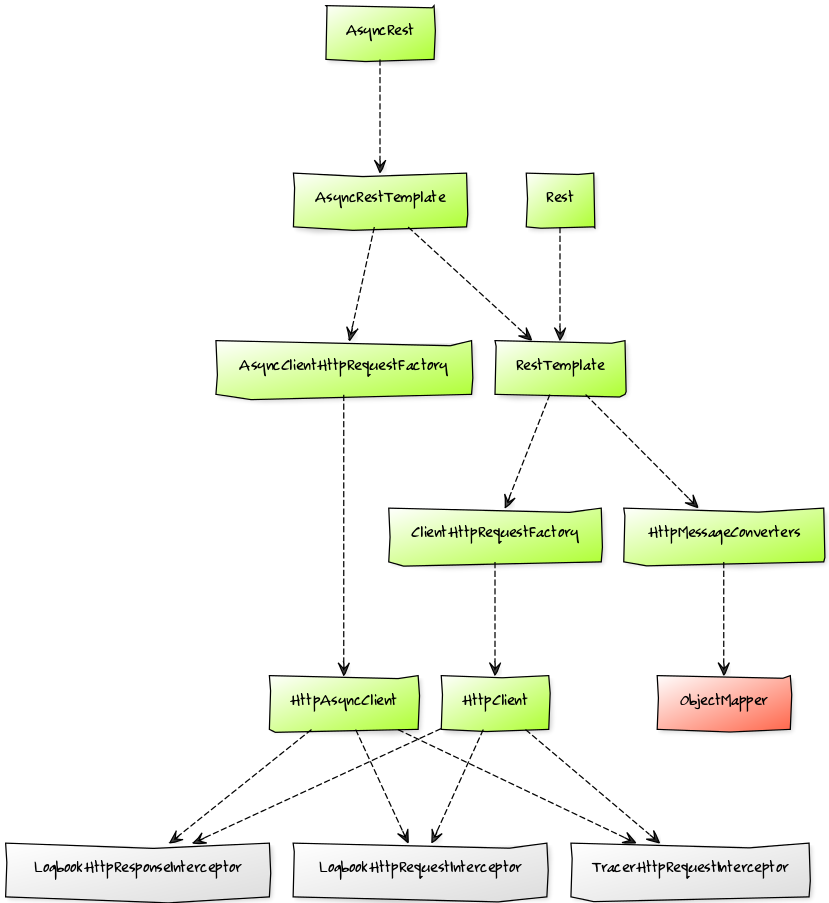
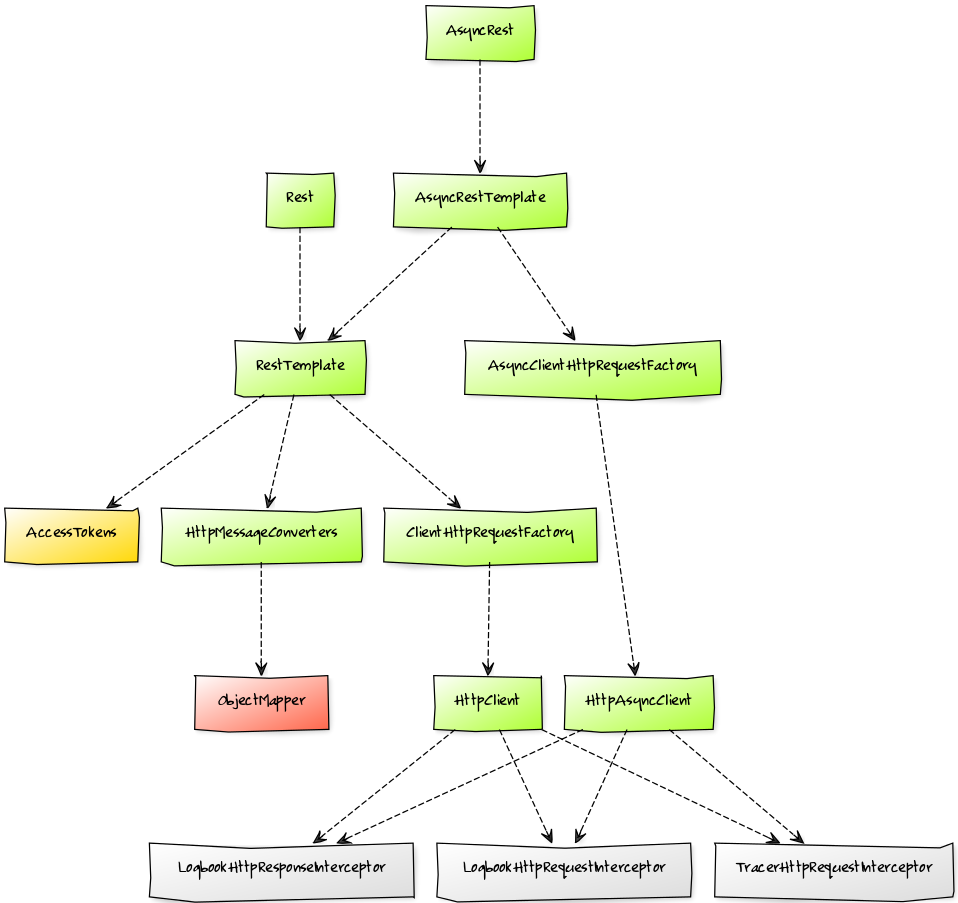
Dropped second graph

diff --git a/README.md b/README.md
@@ -109,8 +109,6 @@ TODO bean names, qualifier, client id
 
 ![Client Dependency Graph](docs/graph.png)
 
-![OAuth Client Dependency Graph](docs/graph-oauth.png)
-
 ## Usage
 
 TODO
